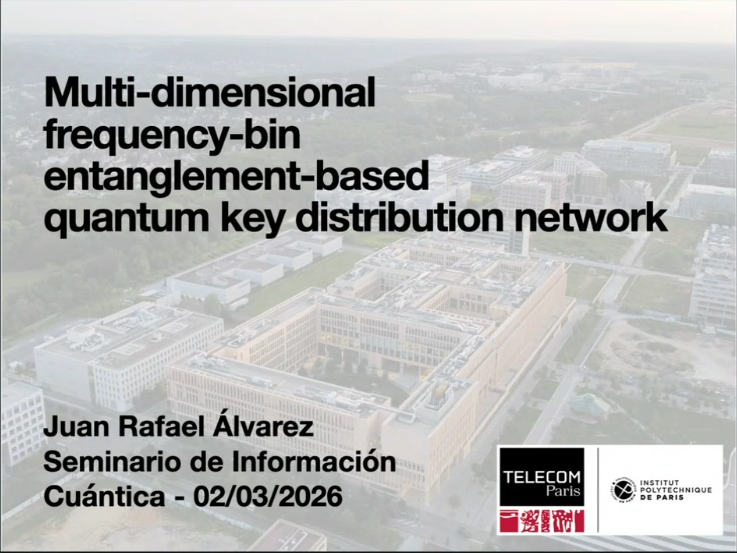
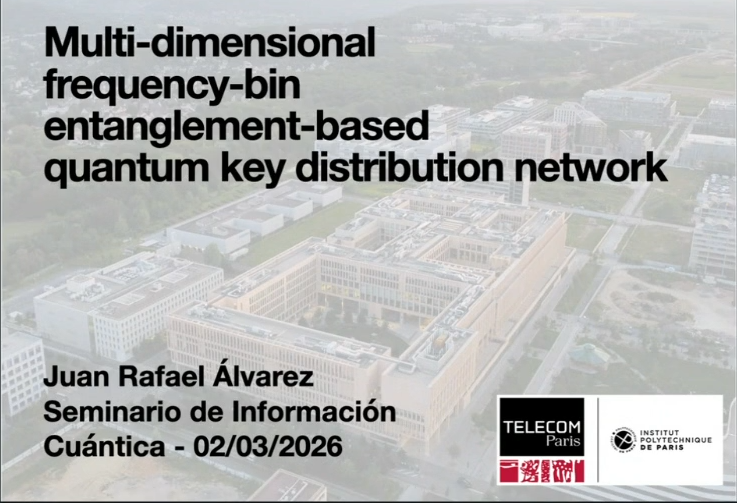
add video-records

diff --git a/Grabaciones.html b/Grabaciones.html
@@ -81,6 +81,83 @@
           <div class="container">
 
       <div class="row">
+
+          <!-- Repetimos el bloque para cada charla -->
+           <div class="col-md-4">
+            <div class="work-box">
+              <a href="assets/img/SeminarS2S7.png" data-gallery="portfolioGallery" class="portfolio-lightbox">
+                <div class="work-img">
+                  <img src="assets/img/SeminarS2S7.png" alt="" class="img-fluid">
+                </div>
+              </a>
+              <div class="work-content">
+                <div class="row">
+                  <div class="col-sm-8">
+                    <h2 class="w-title"> Introducción a la luz estructurada: Impacto y aplicaciones en óptica y las tecnologías cuánticas </h2>
+                    <div class="w-more">
+                      <span class="w-ctegory"> Daniel Salamanca · Centro de Investigaciones en Óptica (CIO) - México </span> / <span class="w-date"> Junio 1. 2026</span>
+                    </div>
+                  </div>
+                  <div class="col-sm-4">
+                    <div class="w-like">
+                      <a href="https://youtu.be/Al7YnYuCKj0"> <span class="bi bi-plus-circle"></span></a>
+                    </div>
+                  </div>
+                </div>
+              </div>
+            </div>
+          </div>
+          <!-- Repetimos el bloque para cada charla -->
+           <div class="col-md-4">
+            <div class="work-box">
+              <a href="assets/img/SeminarS2S6.png" data-gallery="portfolioGallery" class="portfolio-lightbox">
+                <div class="work-img">
+                  <img src="assets/img/SeminarS2S6.png" alt="" class="img-fluid">
+                </div>
+              </a>
+              <div class="work-content">
+                <div class="row">
+                  <div class="col-sm-8">
+                    <h2 class="w-title"> Reconstrucción de la teoría cuántica </h2>
+                    <div class="w-more">
+                      <span class="w-ctegory"> Nicolás Medina Sánchez · University of Vienna   </span> / <span class="w-date"> Mayo 11. 2026</span>
+                    </div>
+                  </div>
+                  <div class="col-sm-4">
+                    <div class="w-like">
+                      <a href="https://youtu.be/y-6AIkNqZ-A"> <span class="bi bi-plus-circle"></span></a>
+                    </div>
+                  </div>
+                </div>
+              </div>
+            </div>
+          </div>
+          <!-- Repetimos el bloque para cada charla -->
+           <div class="col-md-4">
+            <div class="work-box">
+              <a href="assets/img/SeminarS2S5.png" data-gallery="portfolioGallery" class="portfolio-lightbox">
+                <div class="work-img">
+                  <img src="assets/img/SeminarS2S5.png" alt="" class="img-fluid">
+                </div>
+              </a>
+              <div class="work-content">
+                <div class="row">
+                  <div class="col-sm-8">
+                    <h2 class="w-title"> Untangling the Spin-1 Bose-Hubbard Model using Tensor Networks </h2>
+                    <div class="w-more">
+                      <span class="w-ctegory"> Juan Sebastián Gomez · Universidad del Valle  </span> / <span class="w-date"> Abril 27. 2026</span>
+                    </div>
+                  </div>
+                  <div class="col-sm-4">
+                    <div class="w-like">
+                      <a href="https://youtu.be/OfTHvNgI3yM"> <span class="bi bi-plus-circle"></span></a>
+                    </div>
+                  </div>
+                </div>
+              </div>
+            </div>
+          </div>
+          <!-- Repetimos el bloque para cada charla -->
                 <div class="col-md-4">
             <div class="work-box">
               <a href="assets/img/SeminarS2S3.png" data-gallery="portfolioGallery" class="portfolio-lightbox">
@@ -115,7 +192,7 @@
               <div class="work-content">
                 <div class="row">
                   <div class="col-sm-8">
-                    <h2 class="w-title"> Multi-dimensional frequency-bin entanglement-based quantum key distribution network </h2>
+                    <h2 class="w-title"> Multi-dimensional frequency-bin entanglement-based QKD network </h2>
                     <div class="w-more">
                       <span class="w-ctegory"> Juan Rafael Alvarez - Telecom Paris </span> / <span class="w-date"> Marzo 2. 2026</span>
                     </div>

diff --git a/Programacion.html b/Programacion.html
@@ -140,7 +140,7 @@
       <div class="modal-dialog modal-dialog-centered modal-lg">
         <div class="modal-content bg-transparent border-0 shadow-none">
           <div class="modal-body text-center p-0">
-            <a href="http://meet.google.com/fxa-rbnj-wgx" target="_blank">
+            <a href="https://youtu.be/y-6AIkNqZ-A" target="_blank">
               <img src="assets/img/QIs-poster_s2_s6.png" alt="Póster charla s2s6" class="img-fluid">
             </a>
           </div>
@@ -165,7 +165,7 @@
       <div class="modal-dialog modal-dialog-centered modal-lg">
         <div class="modal-content bg-transparent border-0 shadow-none">
           <div class="modal-body text-center p-0">
-            <a href="http://meet.google.com/fxa-rbnj-wgx" target="_blank">
+            <a href="https://youtu.be/OfTHvNgI3yM" target="_blank">
               <img src="assets/img/QIs-poster_s2_s5.jpg" alt="Póster charla s2s5" class="img-fluid">
             </a>
           </div>

diff --git a/OtherEvents.html b/OtherEvents.html
@@ -113,13 +113,6 @@
   </li>
 
   <li>
-    <a href="https://www.helsinki.fi/en/conferences/midsummer-conference-open-quantum-systems-decoherence-and-quantum-classical-crossover" target="_blank">
-      Midsummer Conference on Open Quantum Systems and Decoherence
-    </a>
-    <span class="date">15–18 Jun 2026</span>
-  </li>
-
-  <li>
     <a href="https://www.beyondiid2026.com/" target="_blank">
       Beyond IID 2026
     </a>
